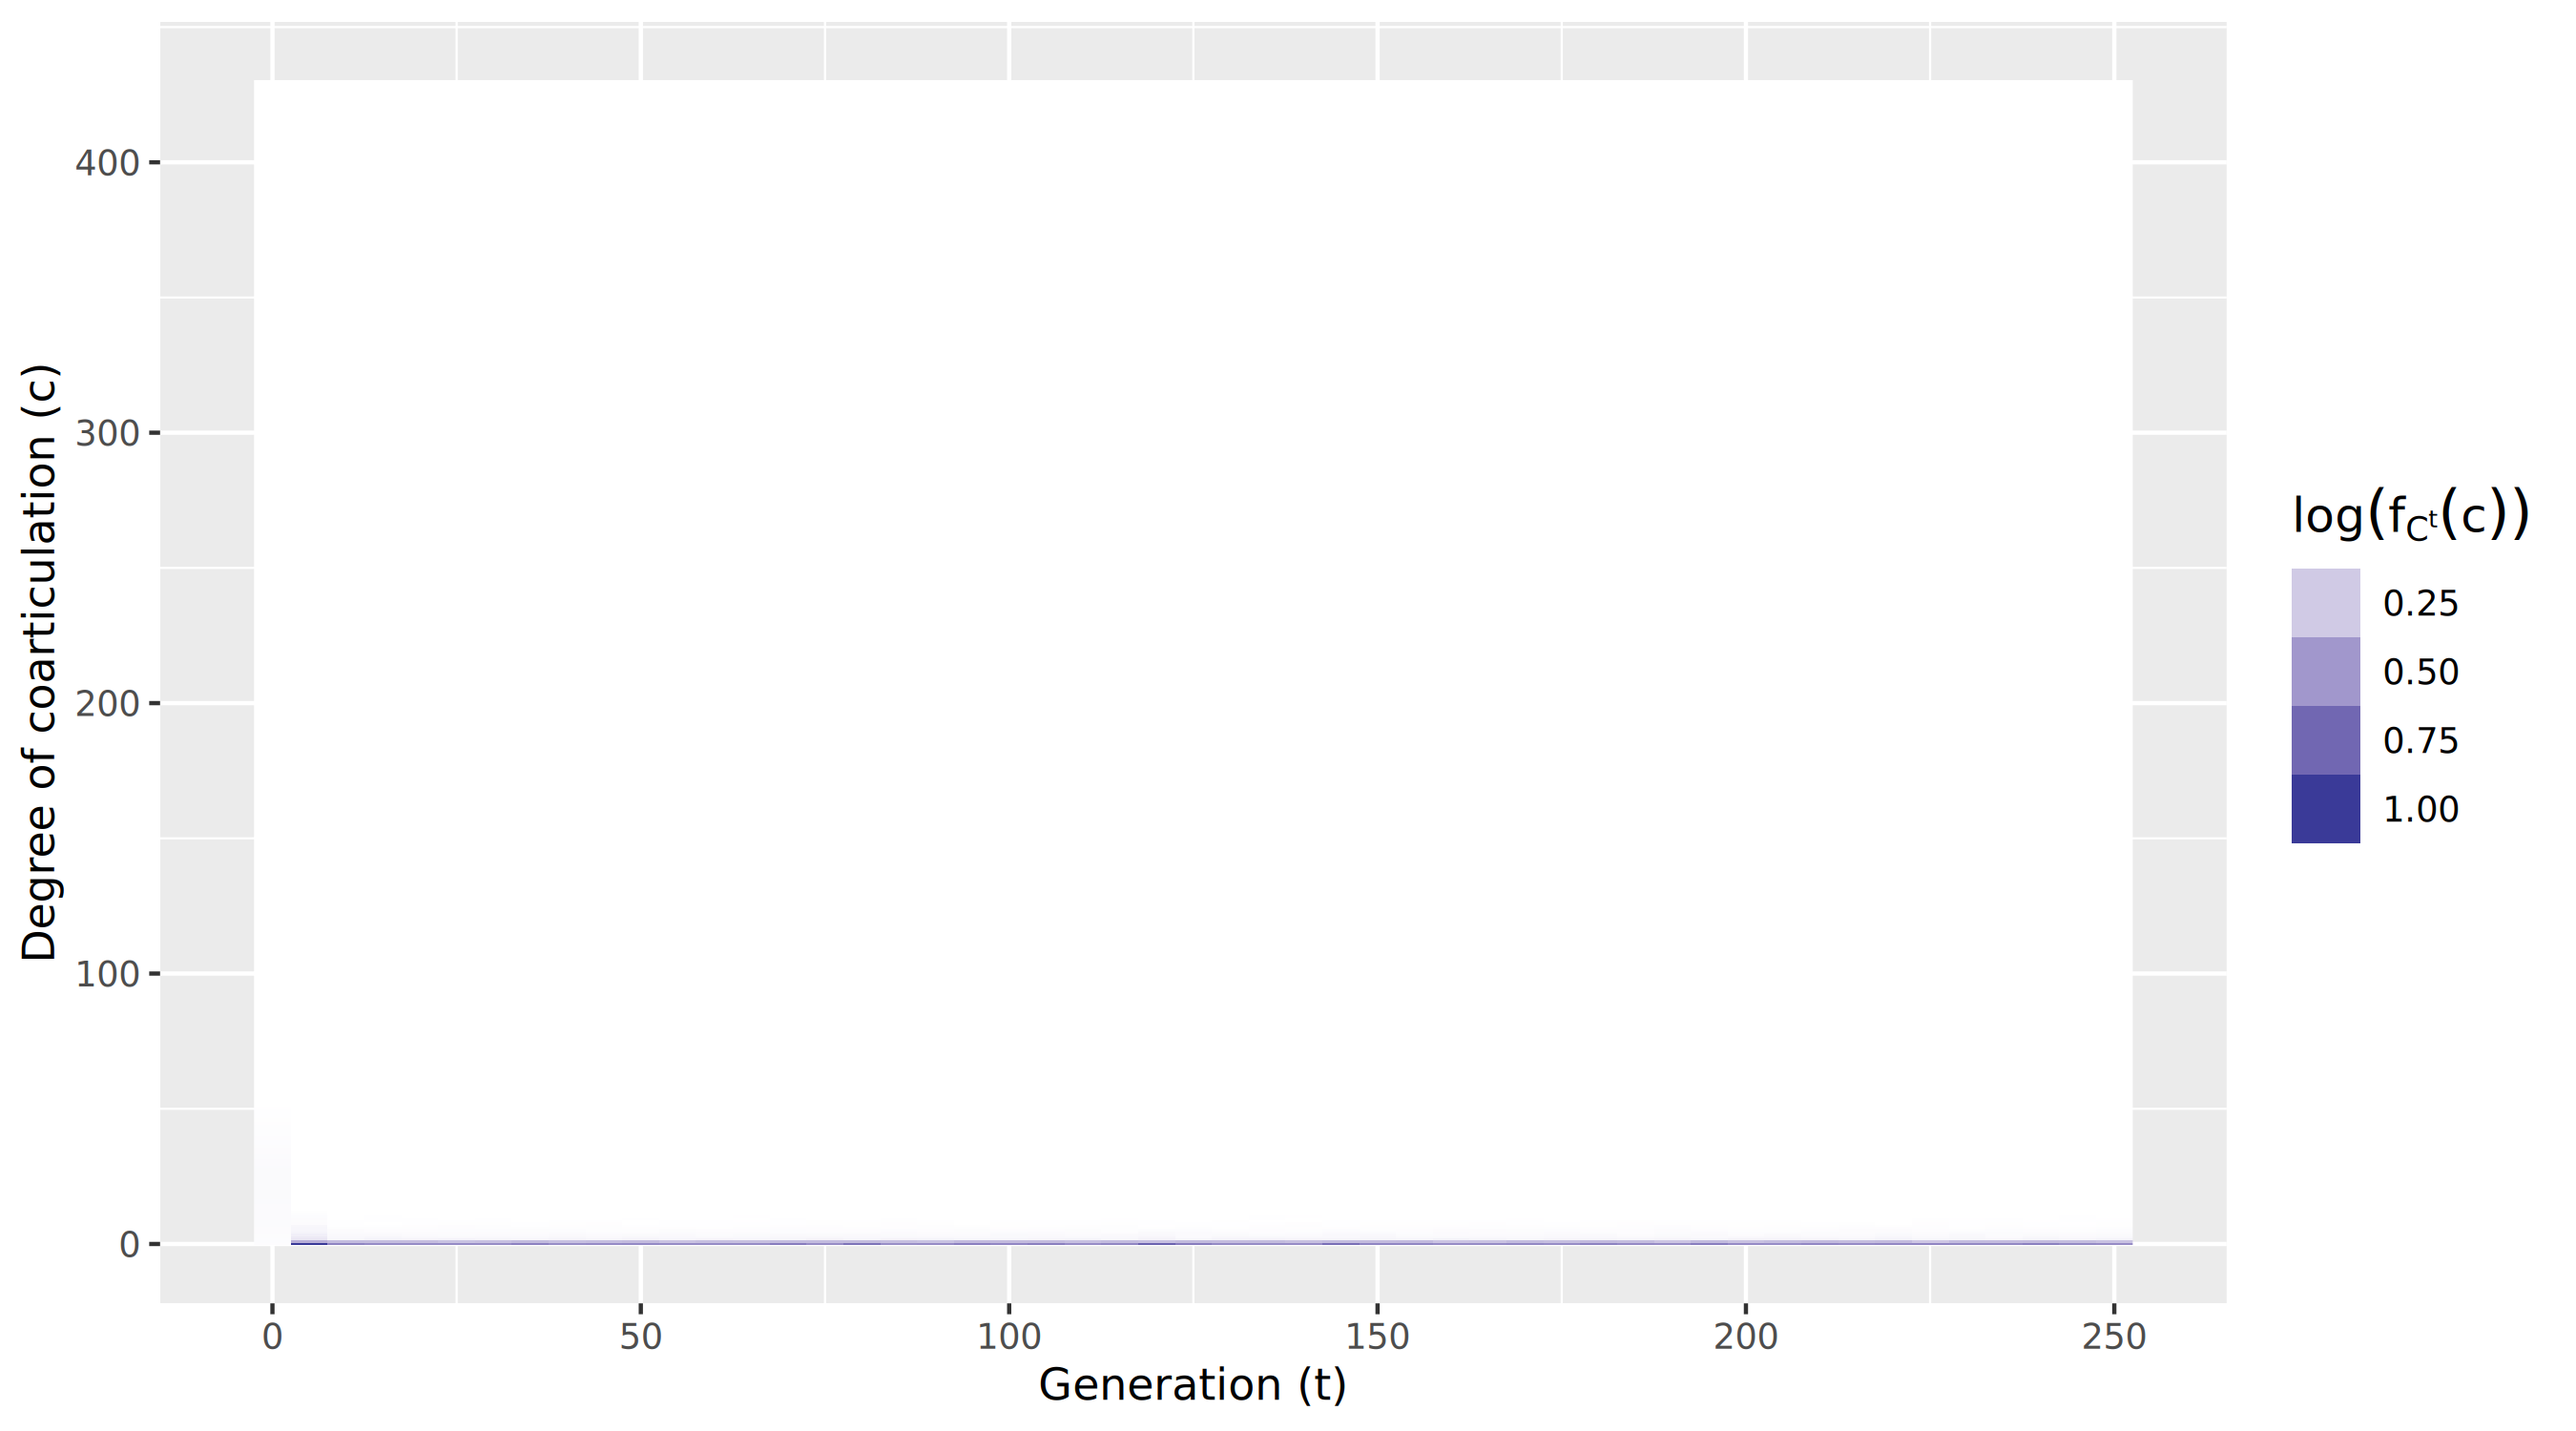
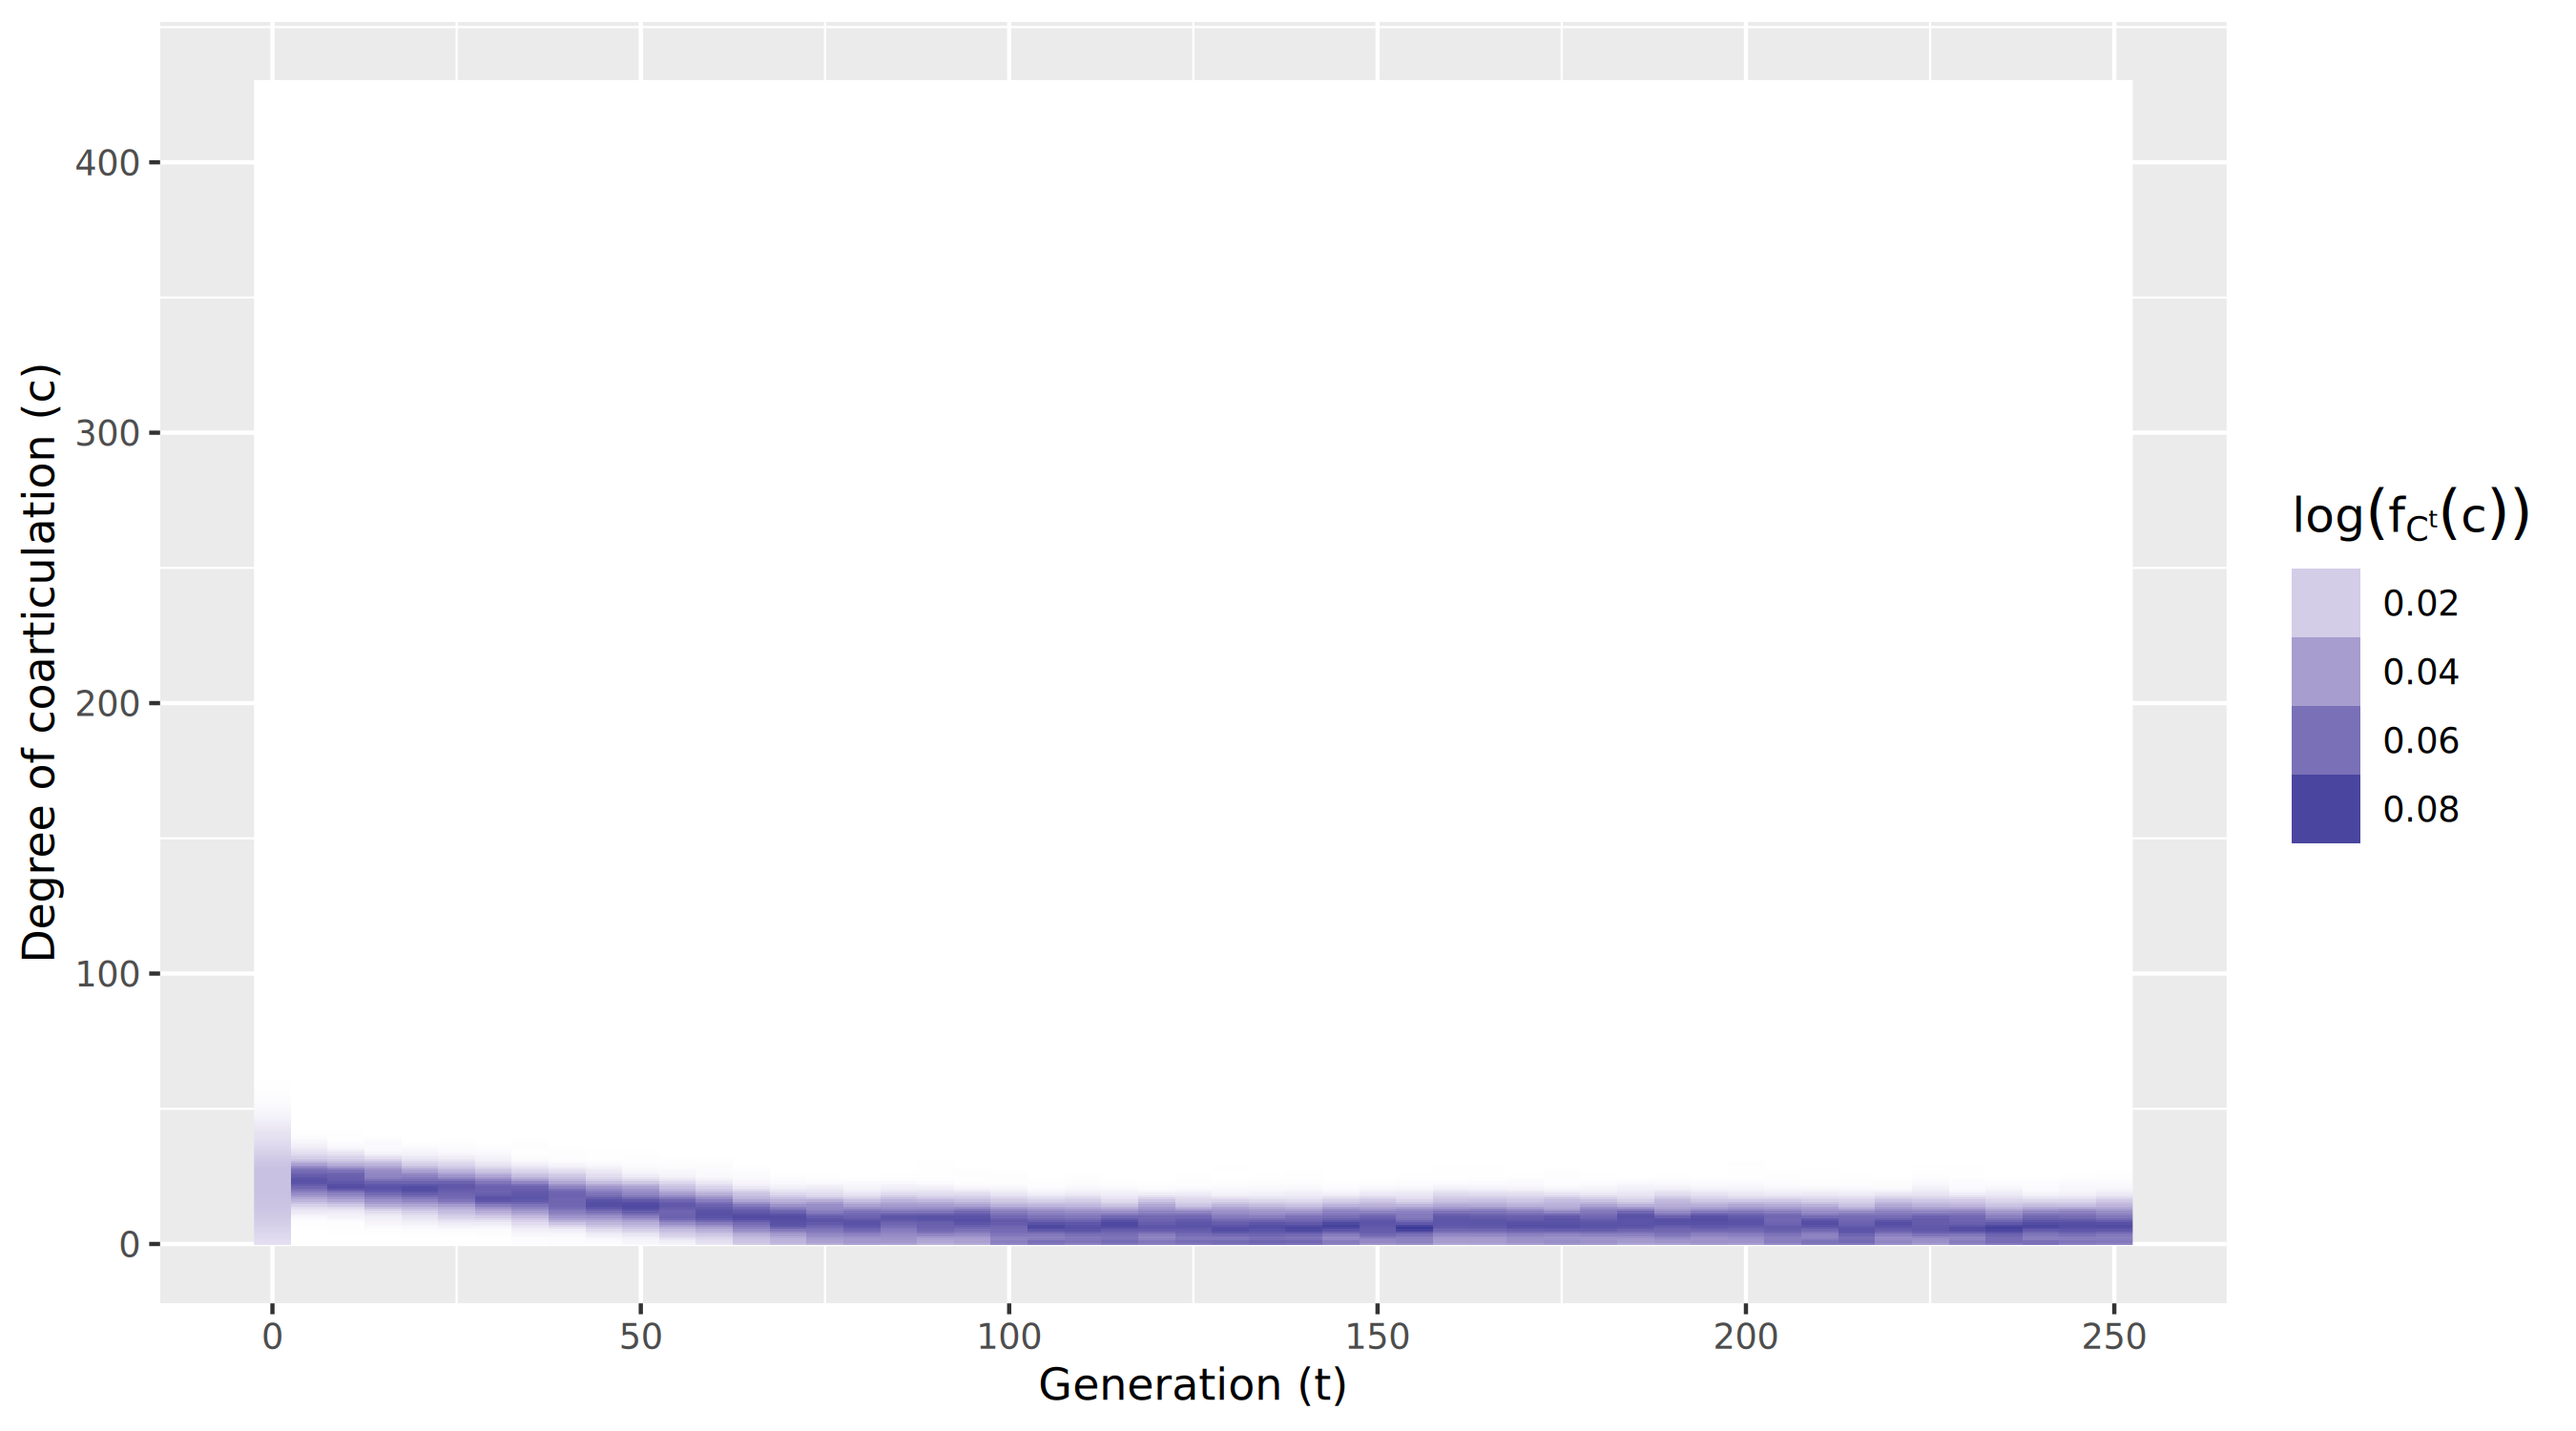
Update simulation result

diff --git a/README.md b/README.md
@@ -16,7 +16,7 @@ The repository contains three simulation scripts:
 
 ### `production_social.R`
 
-Examines the combined effects of production bias and group-based social weighting without a categoricity prior. Learners estimate the coarticulation parameter from socially weighted observations, while production bias introduces a directional phonetic shift.
+Examines the combined effects of production bias and group-based social weighting without a categoricity prior. Learners estimate the phonetic shift parameter from observations scaled by normalized social weights, while production bias introduces a directional phonetic shift.
 
 ### `social_only.R`
 
@@ -26,7 +26,7 @@ Examines the effects of group-based social weighting alone, without production b
 
 Examines the interaction between group-based social weighting and a quadratic categoricity prior, without production bias.
 
-The two Gaussian distributions represent social groups rather than vowel categories. The categoricity prior favors the endpoints of an F1-based vowel-height continuum, approximated by /ɑ/ (low vowel) and /i/ (high vowel), rather than intermediate schwa-like realizations.
+The two Gaussian distributions represent social groups rather than vowel categories. The quadratic categoricity prior favors parameter values corresponding to the endpoints of an F1-based vowel-height continuum, approximated by /ɑ/ (low vowel) and /i/ (high vowel), rather than intermediate realizations.
 
 **Caveat:** The endpoints of the categoricity prior should not be equated with the preferred realizations of either social group. Social preference is encoded through group-specific weighting, whereas the categoricity prior is defined independently over the phonetic continuum.
 
@@ -40,7 +40,7 @@ Rscript social_only.R
 Rscript categoricity_social.R
 ```
 
-Each simulation generates plots of the coarticulation parameter distribution, mean and standard deviation, and quantile-based spread, saved in a condition-specific subdirectory under `plots/`.
+Each simulation generates plots of the phonetic shift parameter distribution, mean and standard deviation, and quantile-based spread, saved in a condition-specific subdirectory under `plots/`.
 
 ## Plotting Functions
 
@@ -48,8 +48,8 @@ The scripts use `ksPlots_lsa2015.R`, available from the [original OSF repository
 
 The following visualizations are generated:
 
-- `densityPlot()`: Probability density of the coarticulation parameter across generations.
-- `meanSdPlot()`: Mean coarticulation parameter ± 1.96 standard deviations.
+- `densityPlot()`: Probability density of the phonetic shift parameter across generations.
+- `meanSdPlot()`: Mean phonetic shift parameter ± 1.96 standard deviations.
 - `spreadPlot()`: Median and 5th–95th percentile range.
 
 For the latter two plots, Group A and Group B are displayed in separate panels using `facet_wrap(~group)`.
